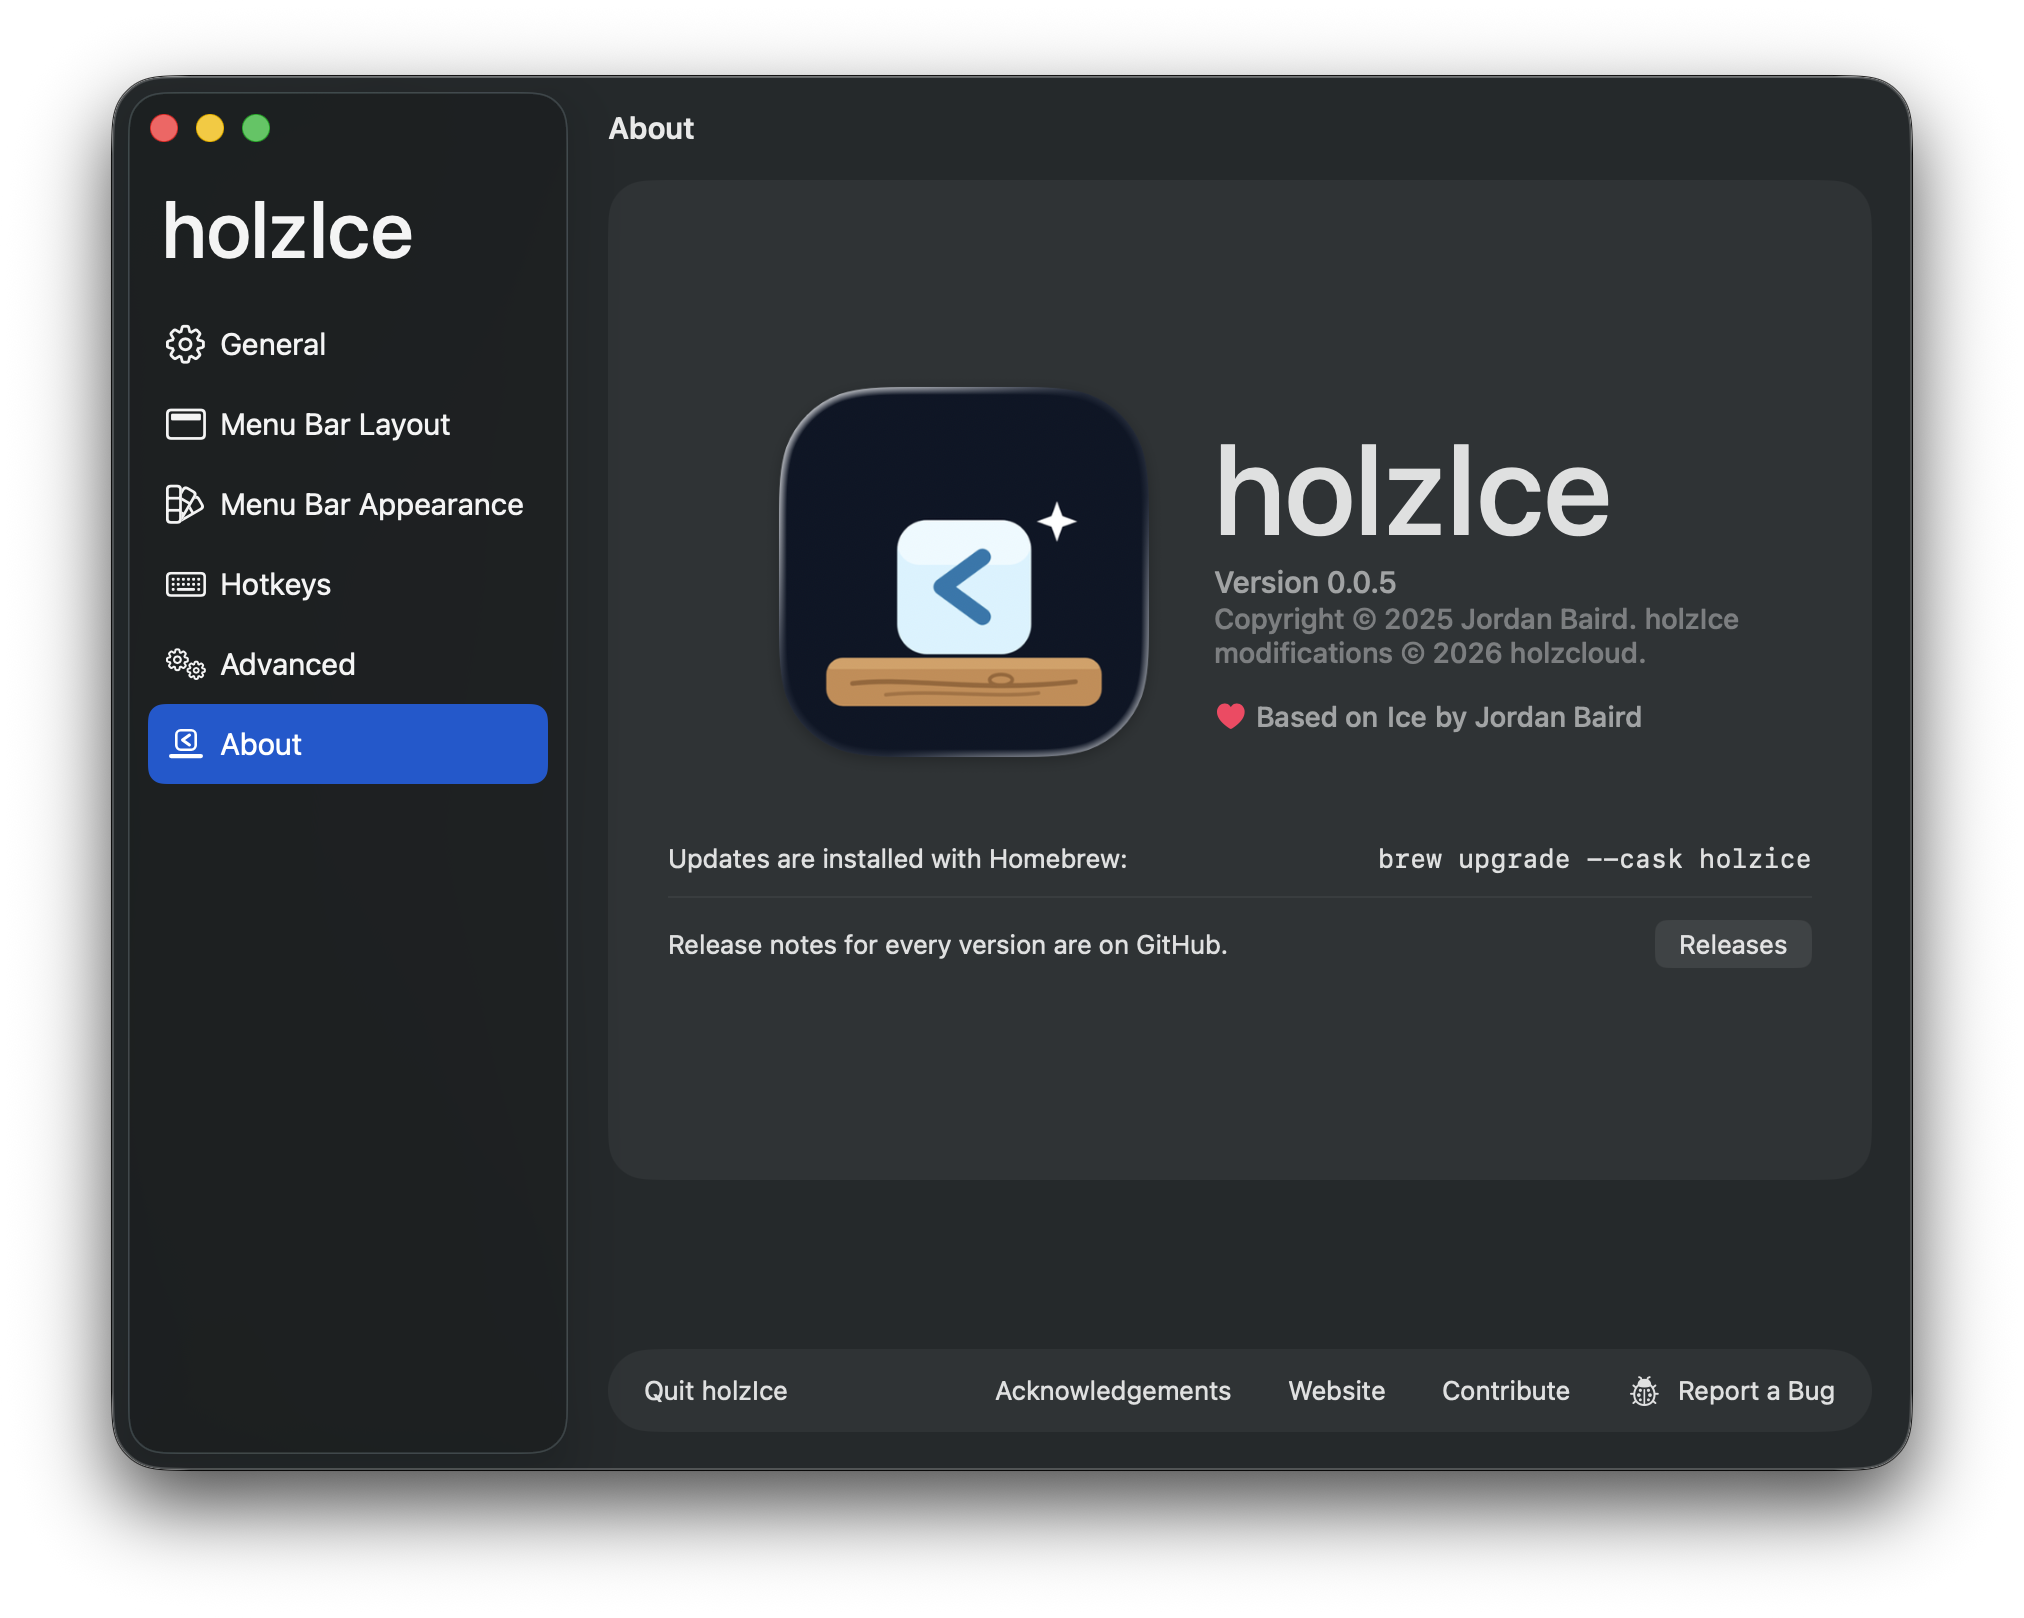
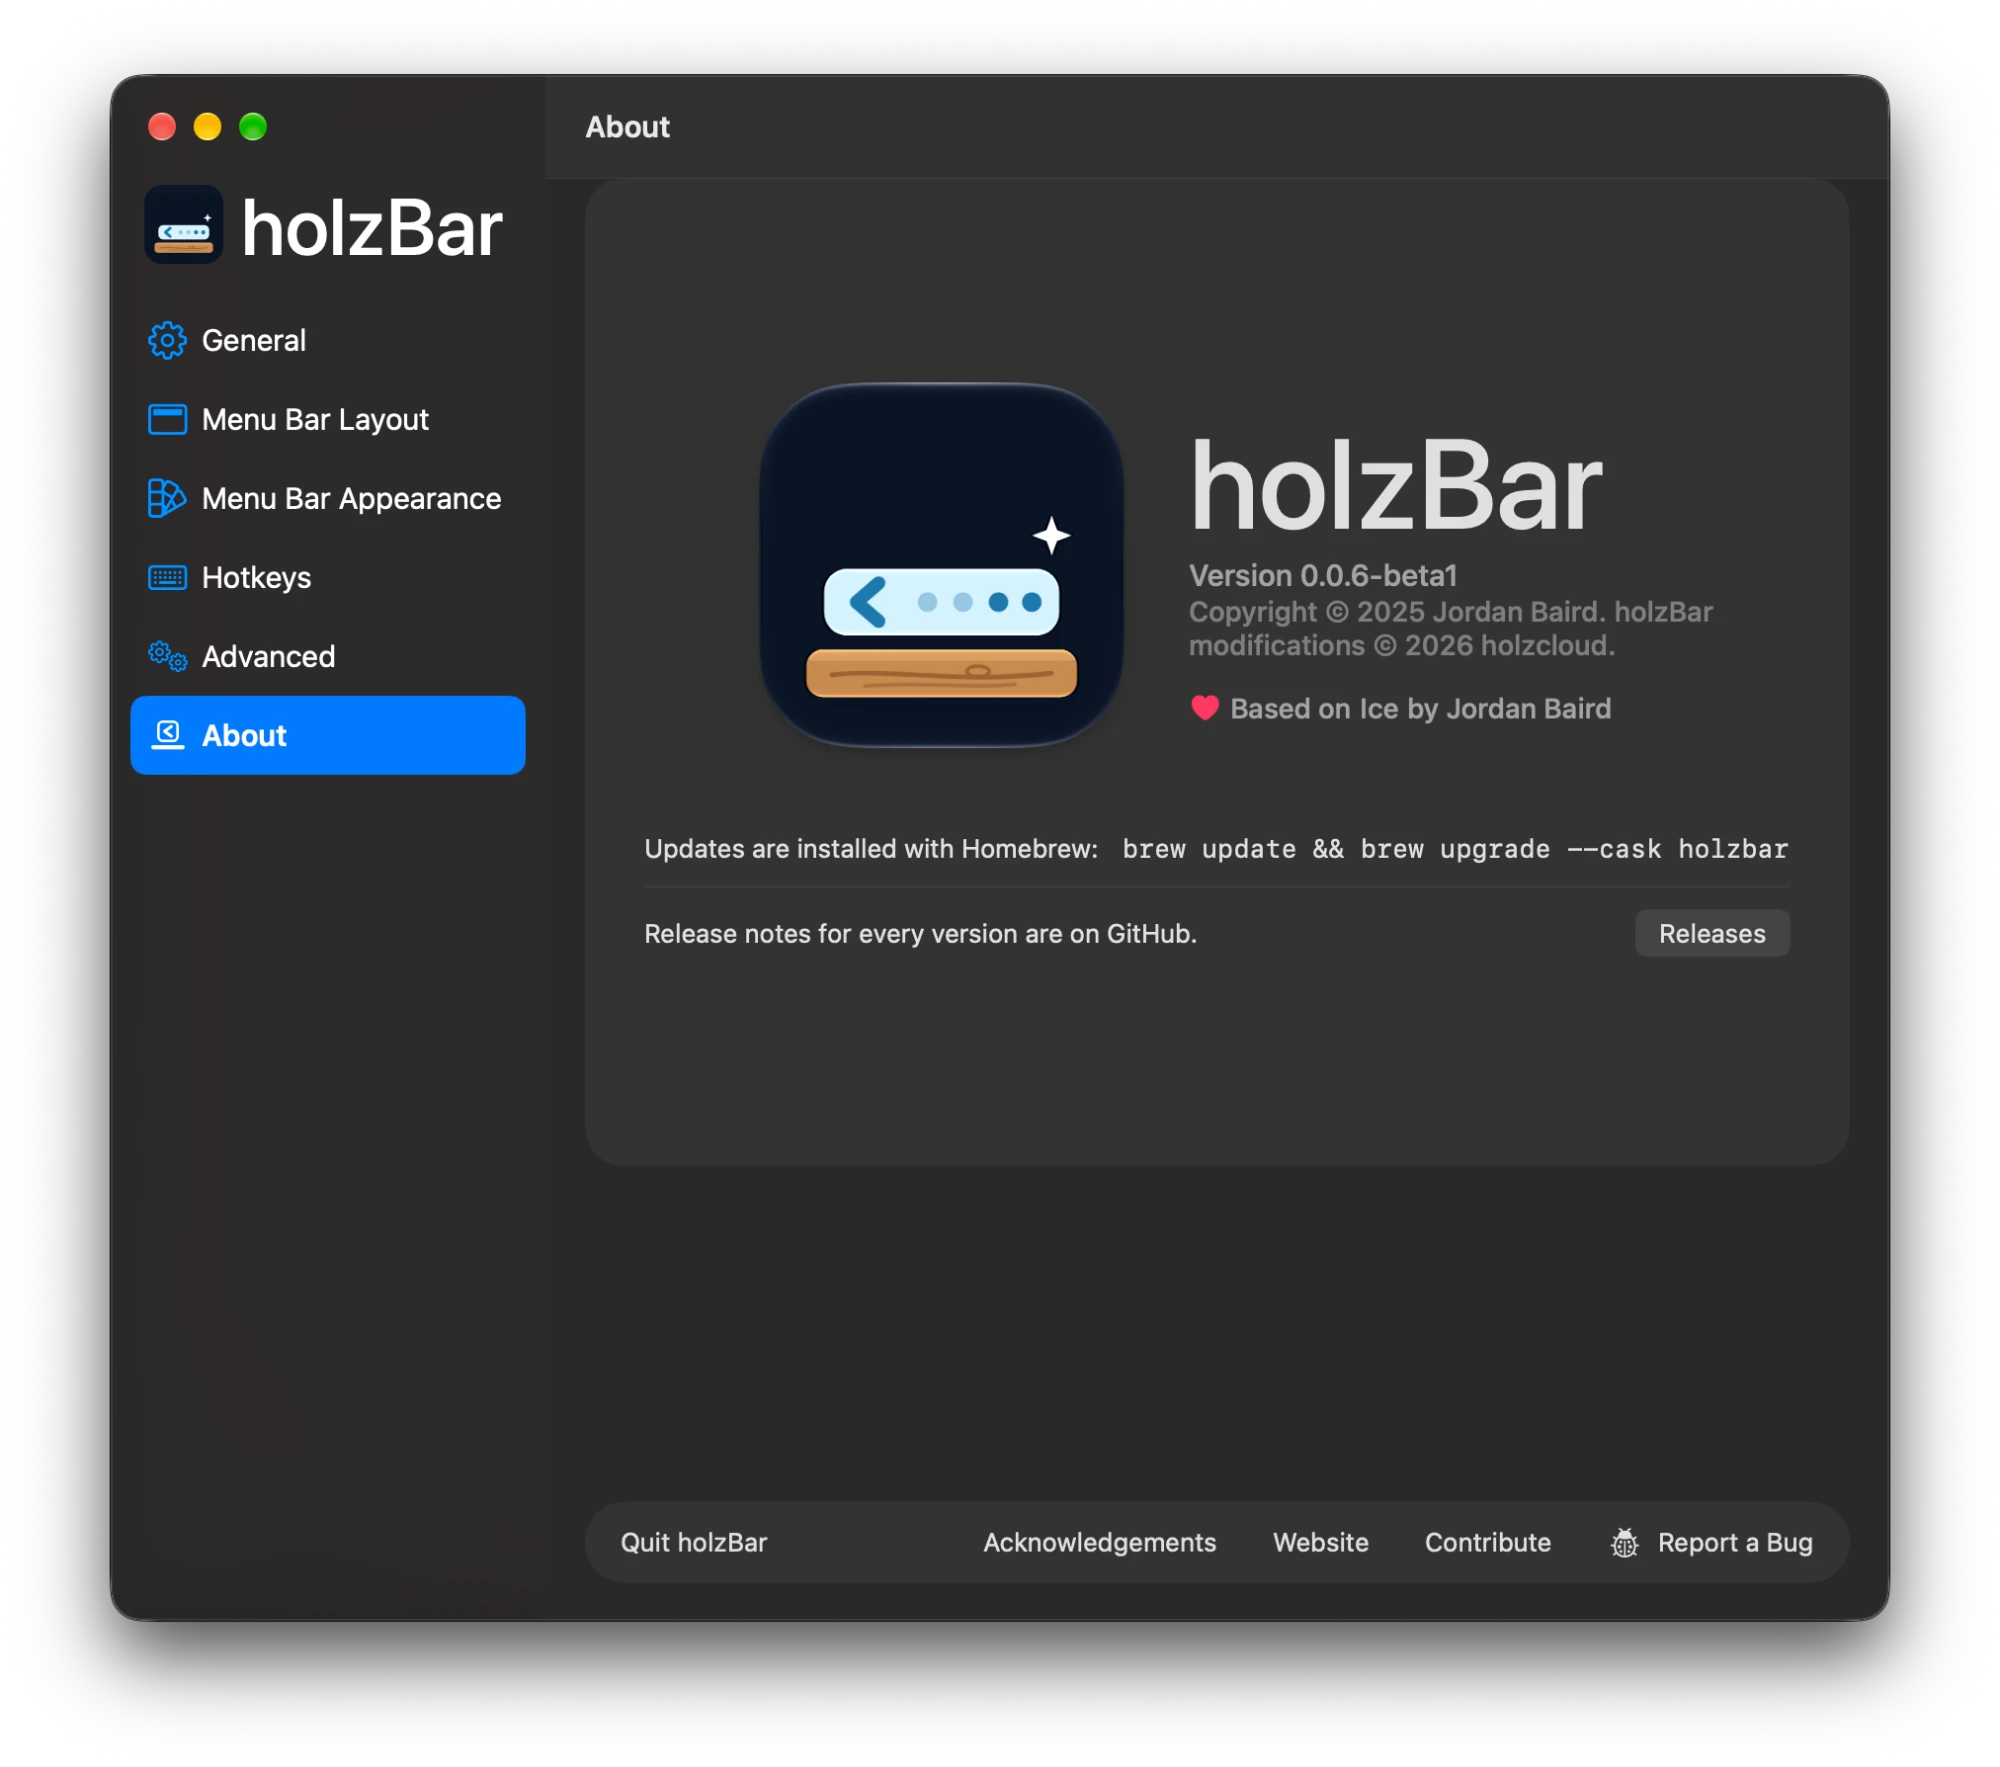
docs: new screenshots of the General and About panes and of settings sync
Claude-Session: https://claude.ai/code/session_01BSzFQk1ZzGXFVBDZMYq8eu

diff --git a/README.md b/README.md
@@ -290,7 +290,7 @@ macOS 27 no longer draws menu bar items as separate windows — `MenuBarAgent` d
 
 ## 🖼 Gallery
 
-<p align="center"><img src="Resources/Screenshots/settings-general.png" alt="holzBar settings, General pane: Launch at login, the holzBar icon, the holzBar Shelf and showing hidden items on click, hover or scroll" width="760"></p>
+<p align="center"><img src="Resources/Screenshots/settings-general.png" alt="holzBar settings, General pane: Launch at login, the holzBar icon, the holzBar Shelf with its location, the displays it is used on and items covered by the notch, showing hidden items on click, hover or scroll, and automatic rehide with the Smart strategy" width="760"></p>
 
 <table>
 <tr>
@@ -312,6 +312,10 @@ macOS 27 no longer draws menu bar items as separate windows — `MenuBarAgent` d
 <td width="50%" valign="top"><b>Hotkeys</b> — a shortcut for every frequent action, profile and item<br><img src="Resources/Screenshots/settings-hotkeys.png" alt="holzBar settings, Hotkeys pane: hotkeys for the hidden section, the search, opening an item by letter, the layout profile home, the holzBar Shelf, app menus, auto-rehide and Zen mode, each with Record Hotkey"></td>
 <td width="50%" valign="top"><b>Advanced</b> — new items, delays, Zen mode, automatic reveal and settings backup<br><img src="Resources/Screenshots/settings-advanced.png" alt="holzBar settings, Advanced pane: the always-hidden section, where new items go, the secondary context menu, the hover delay, hiding opened items again after 15 seconds, opening hidden items in the menu bar, Zen mode while the screen is shared, showing hidden items when the battery is low or the network is lost, and settings Export… and Import…"></td>
 </tr>
+<tr>
+<td width="50%" valign="top"><b>Sync and permissions</b> — settings sync through any folder your Macs sync, and the state of every permission<br><img src="Resources/Screenshots/settings-advanced-sync.png" alt="holzBar settings, Advanced pane further down: showing hidden items automatically, Export… and Import…, Sync settings between your Macs with Turn On… through iCloud Drive, Nextcloud, Dropbox, OneDrive, Syncthing or a network share, and Accessibility and Screen Recording both granted"></td>
+<td width="50%" valign="top"></td>
+</tr>
 </table>
 
 ## 🛠 Troubleshooting
@@ -324,7 +328,7 @@ macOS 27 no longer draws menu bar items as separate windows — `MenuBarAgent` d
 
 ## 🙏 Credits
 
-<img src="Resources/Screenshots/settings-about.png" alt="holzBar settings, About pane: the app icon, the version, copyright Jordan Baird and holzcloud, Based on Ice by Jordan Baird, the command brew upgrade --cask holzbar and a Releases button" width="420" align="right">
+<img src="Resources/Screenshots/settings-about.png" alt="holzBar settings, About pane: the app icon, Version 0.0.6-beta1, copyright Jordan Baird and holzcloud, Based on Ice by Jordan Baird, the command brew update &amp;&amp; brew upgrade --cask holzbar, a Releases button, and Acknowledgements, Website, Contribute and Report a Bug" width="420" align="right">
 
 - [**Ice**](https://github.com/jordanbaird/Ice) by [Jordan Baird](https://github.com/jordanbaird) — the app holzBar is built on: its design, its features and almost all of its code. Thank you, Jordan! 💙 If you like it, [sponsor Jordan](https://github.com/sponsors/jordanbaird) or [buy him a coffee](https://www.buymeacoffee.com/jordanbaird).
 - [**RabenkoYevhenii**](https://github.com/RabenkoYevhenii) — the macOS 27 backend ([jordanbaird/Ice#995](https://github.com/jordanbaird/Ice/pull/995)).
